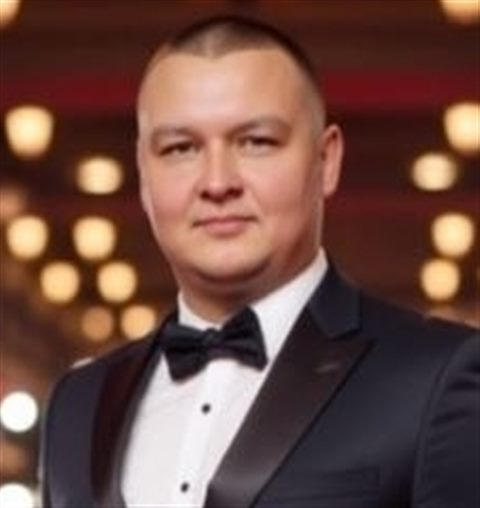
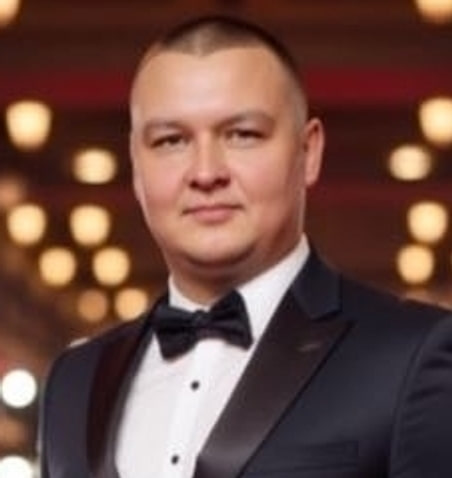
auto(PC1): Cursor task 2026-08-27 17:11

diff --git a/site_mirror/o-kompanii/komanda/index.html b/site_mirror/o-kompanii/komanda/index.html
@@ -42,11 +42,10 @@
     .team-page .team-badge{display:inline-flex;align-items:center;margin:0 0 12px;padding:5px 12px;border-radius:999px;font-size:12px;font-weight:700;letter-spacing:.02em;color:#5b2bc7;background:#f1e9ff;border:1px solid rgba(127,63,242,.18)}
     .team-page .team-hero__title{margin:0 0 12px;font-size:clamp(28px,4vw,42px);font-weight:700;line-height:1.18;color:#151a26;font-family:Montserrat,"Montserrat Fallback",Arial,sans-serif}
     .team-page .team-hero__lead{margin:0;max-width:40em;font-size:17px;font-weight:400;line-height:1.55;color:#596174;font-family:Montserrat,"Montserrat Fallback",Arial,sans-serif!important}
-    .team-page .team-hero__photos{display:grid;grid-template-columns:repeat(2,minmax(0,1fr));gap:10px}
-    .team-page .team-hero__photo{margin:0;border-radius:16px;overflow:hidden;background:#eef1f6;border:2px solid #fff;box-shadow:0 12px 28px rgba(21,26,38,.08)}
-    .team-page .team-hero__photo img{display:block;width:100%;height:100%;aspect-ratio:1;object-fit:cover}
+    .team-page .team-hero__visual{display:flex;justify-content:center;align-items:center}
+    .team-page .team-hero__visual img{display:block;width:min(100%,420px);height:auto}
   </style>
-  <link rel="stylesheet" href="../../assets/css/team-page.css?v=6">
+  <link rel="stylesheet" href="../../assets/css/team-page.css?v=8">
   <link rel="preload" href="../../assets/css/home-clean.css?v=39" as="style">
   <link rel="preload" href="../../assets/css/lead-forms.css" as="style">
   <noscript>
@@ -118,19 +117,11 @@
           <h1 class="team-hero__title" id="team-hero-title">Люди, которые развивают проекты Raskrutov</h1>
           <p class="team-hero__lead">Стратегия, сайты, SEO, автоматизация и digital-маркетинг требуют сильной экспертизы на каждом этапе. Показываем специалистов, которые отвечают за развитие проектов Raskrutov.</p>
         </div>
-        <div class="team-hero__photos" aria-hidden="true">
-          <figure class="team-hero__photo team-hero__photo--daniil">
-            <img src="../../assets/img/team/daniil-240.jpg" width="240" height="254" alt="" decoding="async" fetchpriority="low">
-          </figure>
-          <figure class="team-hero__photo team-hero__photo--stepan">
-            <img src="../../assets/img/team/stepan-240.jpg" width="240" height="253" alt="" decoding="async" fetchpriority="low">
-          </figure>
-          <figure class="team-hero__photo team-hero__photo--alexander">
-            <img src="../../assets/img/team/alexander-240.jpg" width="240" height="241" alt="" decoding="async" fetchpriority="low">
-          </figure>
-          <figure class="team-hero__photo team-hero__photo--kseniya">
-            <img src="../../assets/img/team/kseniya-240.jpg" width="240" height="253" alt="" decoding="async" fetchpriority="low">
-          </figure>
+        <div class="team-hero__visual" aria-hidden="true">
+          <picture>
+            <source media="(max-width: 767px)" srcset="../../assets/img/team/team-hero-mobile.webp" type="image/webp" width="480" height="480">
+            <img src="../../assets/img/team/team-hero.webp" width="720" height="720" alt="" decoding="async" fetchpriority="low">
+          </picture>
         </div>
       </div>
     </section>
@@ -161,7 +152,10 @@
         <h2 class="team-h2" id="leadership-title">Руководство</h2>
         <article class="team-lead-card">
           <figure class="team-lead-card__photo">
-            <img src="../../assets/img/team/daniil-480.jpg" width="480" height="508" alt="Даниил Инжеватов — CEO Raskrutov" loading="lazy" decoding="async" fetchpriority="low">
+            <picture>
+              <source type="image/webp" srcset="../../assets/img/team/daniil-480.webp">
+              <img src="../../assets/img/team/daniil-480.jpg" width="452" height="478" alt="Даниил Инжеватов — CEO Raskrutov" loading="lazy" decoding="async" fetchpriority="low">
+            </picture>
           </figure>
           <div class="team-lead-card__body">
             <p class="team-tag">CEO</p>
@@ -176,7 +170,7 @@
     <section class="team-section team-section--muted" id="tech-team" aria-labelledby="tech-team-title">
       <div class="rk-container">
         <h2 class="team-h2" id="tech-team-title">Техническая команда</h2>
-        <p class="team-lead">Специалисты, которые собирают сайты, развивают видимость в поиске и готовят страницы к продвижению.</p>
+        <p class="team-lead">Специалисты, которые создают техническую и маркетинговую основу для роста бизнеса в digital. Команда работает над сайтами, поисковой видимостью, структурой страниц, качеством реализации и подготовкой проектов к дальнейшему развитию.</p>
         <div class="team-grid">
           <article class="team-card team-card--stepan">
             <figure class="team-card__photo">

diff --git a/site_mirror/assets/css/team-page.css b/site_mirror/assets/css/team-page.css
@@ -195,33 +195,18 @@
   text-underline-offset: 2px;
 }
 
-.team-page .team-hero__photos {
-  display: grid;
-  grid-template-columns: repeat(2, minmax(0, 1fr));
-  gap: 10px;
+.team-page .team-hero__visual {
+  display: flex;
+  justify-content: center;
+  align-items: center;
 }
 
-.team-page .team-hero__photo {
-  margin: 0;
-  border-radius: 16px;
-  overflow: hidden;
-  background: #eef1f6;
-  border: 2px solid #fff;
-  box-shadow: 0 12px 28px rgba(21, 26, 38, 0.08);
-}
-
-.team-page .team-hero__photo img {
+.team-page .team-hero__visual picture,
+.team-page .team-hero__visual img {
   display: block;
-  width: 100%;
-  height: 100%;
-  aspect-ratio: 1;
-  object-fit: cover;
+  width: min(100%, 420px);
+  height: auto;
 }
-
-.team-page .team-hero__photo--daniil img { object-position: 50% 18%; }
-.team-page .team-hero__photo--stepan img { object-position: 50% 14%; }
-.team-page .team-hero__photo--alexander img { object-position: 50% 18%; }
-.team-page .team-hero__photo--kseniya img { object-position: 50% 22%; }
 
 .team-page .team-section {
   padding: 36px 0;
@@ -280,8 +265,10 @@
 
 .team-page .team-lead-card {
   display: grid;
-  gap: 18px;
-  padding: 16px;
+  grid-template-columns: 168px minmax(0, 1fr);
+  gap: 16px;
+  align-items: center;
+  padding: 14px;
   border-radius: 20px;
   background: #fff;
   border: 1px solid #e8ecf4;
@@ -290,6 +277,7 @@
 
 .team-page .team-lead-card__photo {
   margin: 0;
+  width: 168px;
   border-radius: 16px;
   overflow: hidden;
   background: #eef1f6;
@@ -299,7 +287,7 @@
   display: block;
   width: 100%;
   height: auto;
-  aspect-ratio: 480 / 508;
+  aspect-ratio: 1;
   object-fit: cover;
   object-position: 50% 16%;
 }
@@ -394,6 +382,47 @@
 
 .team-page .team-card .team-person-text {
   font-size: 15px;
+}
+
+.team-page #tech-team {
+  padding: 28px 0;
+}
+
+.team-page #tech-team .team-h2 {
+  margin-bottom: 8px;
+}
+
+.team-page #tech-team .team-lead {
+  margin-bottom: 16px;
+  font-size: 15px;
+}
+
+.team-page #tech-team .team-grid {
+  gap: 12px;
+}
+
+.team-page #tech-team .team-card {
+  padding: 10px;
+  gap: 10px;
+  border-radius: 14px;
+  box-shadow: 0 8px 20px rgba(21, 26, 38, 0.04);
+}
+
+.team-page #tech-team .team-card__photo {
+  border-radius: 12px;
+}
+
+.team-page #tech-team .team-card__photo img {
+  aspect-ratio: 16 / 10;
+}
+
+.team-page #tech-team .team-card h3 {
+  font-size: 18px;
+}
+
+.team-page #tech-team .team-card .team-person-text {
+  font-size: 14px;
+  line-height: 1.5;
 }
 
 .team-page .team-flow {
@@ -622,53 +651,24 @@
 
 @media (min-width: 768px) {
   .team-page .team-hero__inner {
-    grid-template-columns: minmax(0, 1.1fr) minmax(280px, 0.9fr);
-    gap: 36px;
+    grid-template-columns: minmax(0, 1.05fr) minmax(300px, 0.95fr);
+    gap: 28px;
   }
 
-  .team-page .team-hero__photos {
-    position: relative;
-    display: block;
-    min-height: 360px;
-  }
-
-  .team-page .team-hero__photo {
-    position: absolute;
-    width: 46%;
-  }
-
-  .team-page .team-hero__photo--daniil {
-    top: 0;
-    left: 6%;
-    z-index: 3;
-    width: 48%;
-  }
-
-  .team-page .team-hero__photo--stepan {
-    top: 8%;
-    right: 0;
-    z-index: 2;
-    transform: rotate(3deg);
-  }
-
-  .team-page .team-hero__photo--alexander {
-    bottom: 0;
-    left: 0;
-    z-index: 2;
-    transform: rotate(-3deg);
-  }
-
-  .team-page .team-hero__photo--kseniya {
-    bottom: 2%;
-    right: 8%;
-    z-index: 4;
+  .team-page .team-hero__visual picture,
+  .team-page .team-hero__visual img {
+    width: min(100%, 520px);
   }
 
   .team-page .team-lead-card {
-    grid-template-columns: minmax(220px, 280px) minmax(0, 1fr);
+    grid-template-columns: 200px minmax(0, 1fr);
     align-items: center;
-    padding: 20px;
-    gap: 28px;
+    padding: 18px 22px;
+    gap: 24px;
+  }
+
+  .team-page .team-lead-card__photo {
+    width: 200px;
   }
 
   .team-page .team-flow {
@@ -718,8 +718,22 @@
     max-width: 46rem;
   }
 
-  .team-page .team-hero__photos {
-    min-height: 400px;
+  .team-page .team-hero__visual picture,
+  .team-page .team-hero__visual img {
+    width: min(100%, 560px);
+  }
+}
+
+@media (max-width: 419px) {
+  .team-page .team-lead-card {
+    grid-template-columns: 132px minmax(0, 1fr);
+    gap: 12px;
+    padding: 12px;
+  }
+
+  .team-page .team-lead-card__photo {
+    width: 132px;
+    border-radius: 12px;
   }
 }
 
@@ -732,5 +746,13 @@
   .team-page .team-person-text,
   .team-page .team-lead {
     font-size: 15px;
+  }
+
+  .team-page .team-lead-card {
+    grid-template-columns: 1fr;
+  }
+
+  .team-page .team-lead-card__photo {
+    width: min(180px, 58%);
   }
 }
